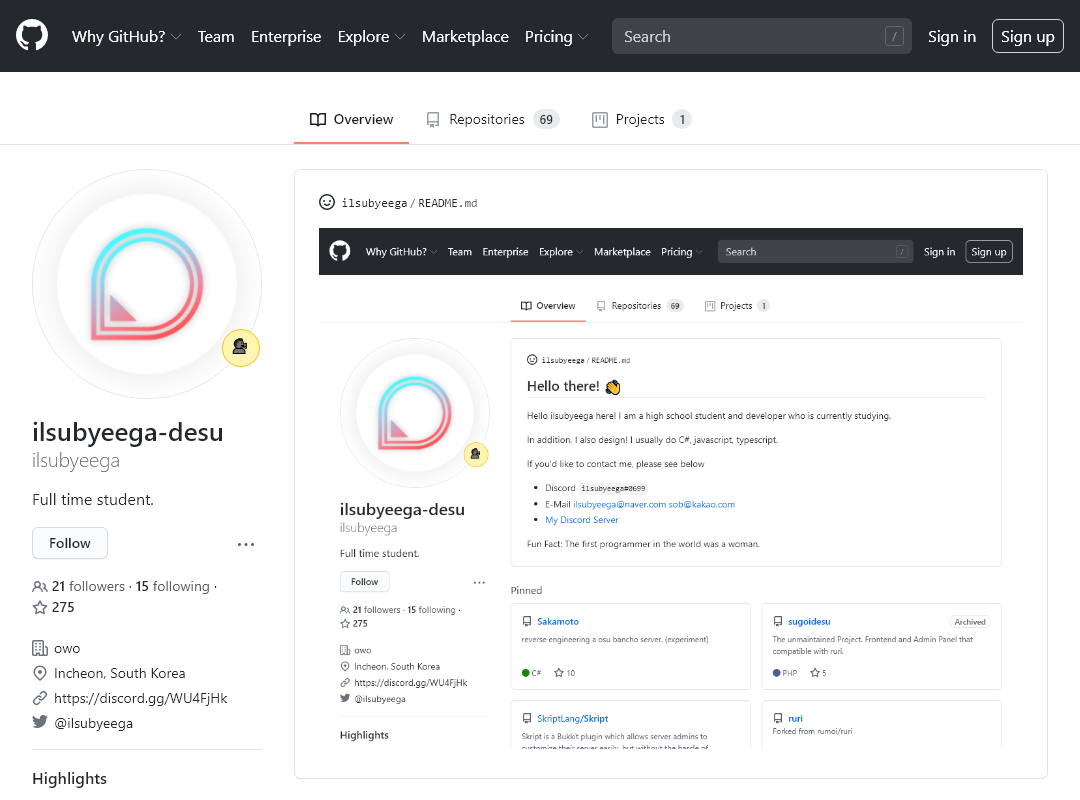
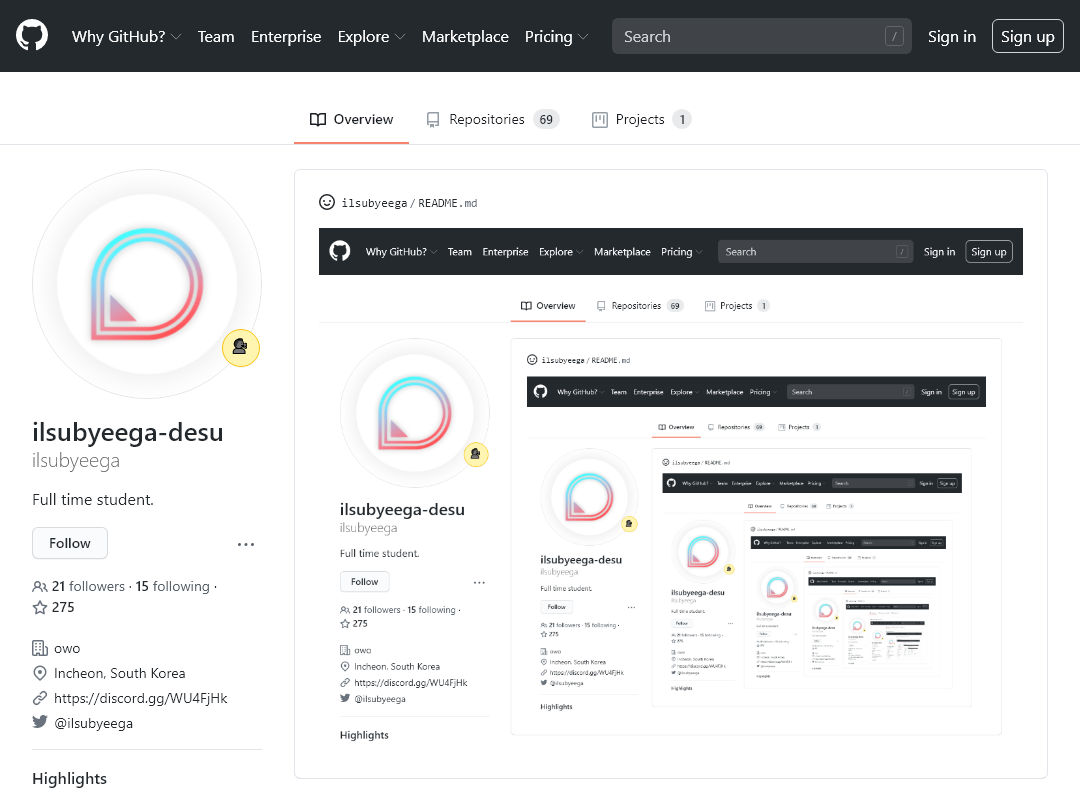
"adds new screenshot at depth 3"

diff --git a/README.md b/README.md
@@ -1,1 +1,1 @@
-![Woah!](https://github.com/ilsubyeega/ilsubyeega/blob/master/screenshot-4.png)
+![Woah!](https://github.com/ilsubyeega/ilsubyeega/blob/master/screenshot-3.png)
